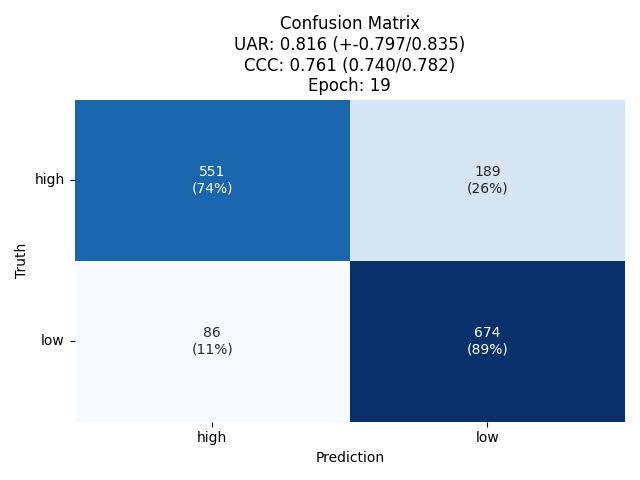
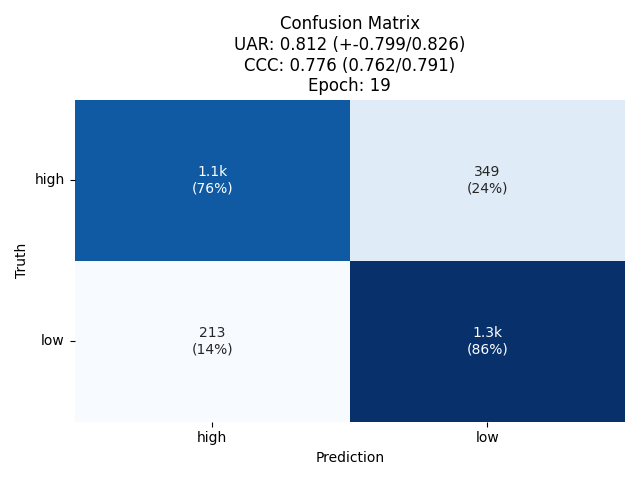
Update results with German-inclusive evaluation, add language comparison plot
Re-scored the style-transfer check on the full English+German dataset
(previously English-only), updated the reported metrics, and added a
bar chart comparing English-only/German-only/combined performance.
Also dropped the nkululeko framework mention from provenance.

diff --git a/README.md b/README.md
@@ -65,17 +65,24 @@ to any synthetic or cross-lingual audio — was scored against all synthetic cli
 
 | Metric | Value |
 |---|---|
-| Pearson correlation (PCC) | 0.812 |
-| Concordance correlation (CCC) | 0.761 |
-| High/low classification accuracy (UAR) | 0.816 |
+| Pearson correlation (PCC) | 0.811 |
+| Concordance correlation (CCC) | 0.776 |
+| High/low classification accuracy (UAR) | 0.812 |
 
 For reference, that same model's performance on real, native-language recordings (the
 data it was actually trained on) is CCC ≈ 0.90 — so cross-lingual, voice-cloned
 synthetic speech recovers most, though not all, of native-domain performance.
 
-![Predicted vs. true stress on the synthetic clips — scatter plot with regression line, CCC 0.761, PCC 0.812](results/style_transfer_scatter.png)
+Broken out by language, German scores essentially the same as English (PCC 0.814 / CCC
+0.791 / UAR 0.808 for German vs. PCC 0.812 / CCC 0.761 / UAR 0.816 for English) — evidence
+the cloned prosody carries the stress signal about equally well regardless of the output
+language:
 
-![High/low stress confusion matrix on the synthetic clips, UAR 0.816](results/style_transfer_confusion.png)
+![Bar chart comparing PCC, CCC, and UAR for English-only, German-only, and combined evaluation — all three scores are close across the three groups](results/language_comparison_barplot.png)
+
+![Predicted vs. true stress on the synthetic clips — scatter plot with regression line, CCC 0.776, PCC 0.811](results/style_transfer_scatter.png)
+
+![High/low stress confusion matrix on the synthetic clips, UAR 0.812](results/style_transfer_confusion.png)
 
 Per-bin, predictions track the copied label monotonically across the full stress range,
 with the largest gap at the highest stress level (the model somewhat under-predicts the
@@ -105,8 +112,6 @@ stressed.
 - **Copied stress labels** are a proxy (StressDat's own perceptual stress score for the
   reference recording), not a new human rating of the synthetic clip itself — see
   Results above for how well that proxy holds up against an independent model.
-- Downstream framework used: [nkululeko](https://github.com/felixbur/nkululeko) for
-  model training/evaluation.
 
 **The audio samples under `samples/` require the copyright holder's express prior
 written consent before any use** — including research, commercial, or personal use,
